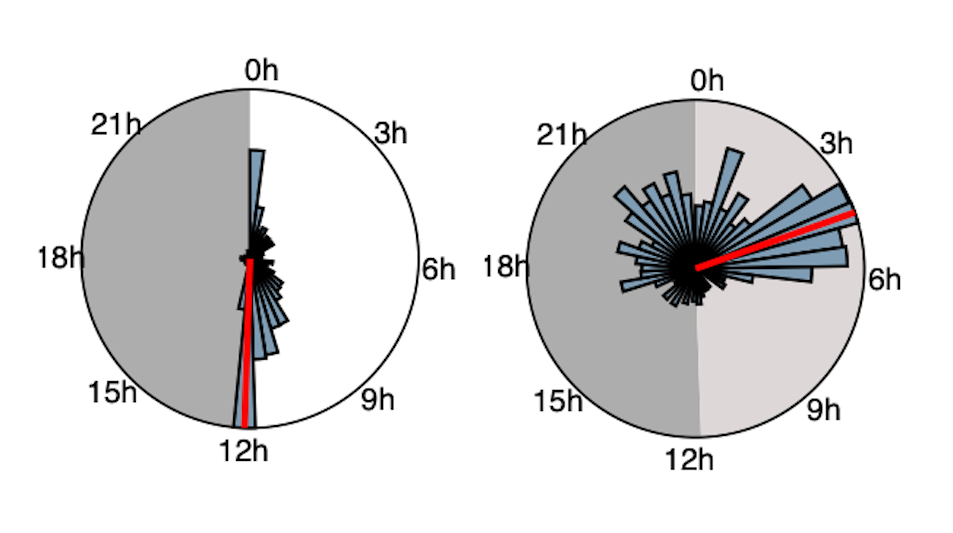
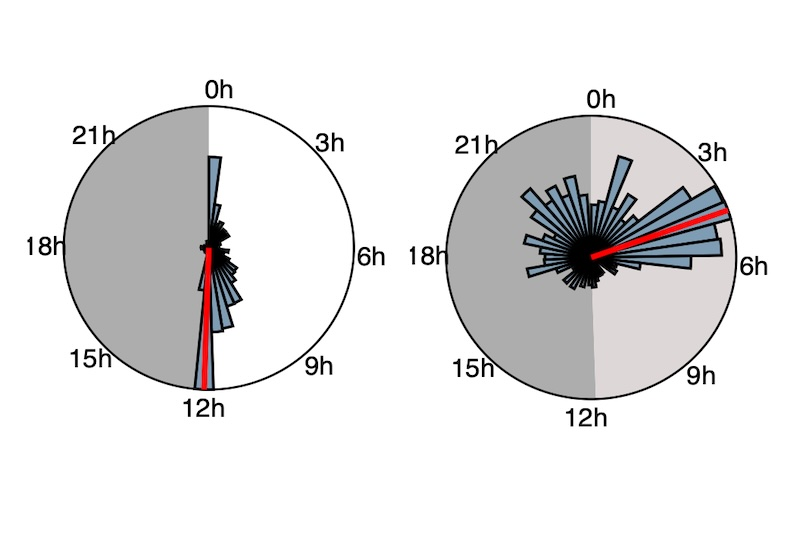
Maj img

diff --git a/_posts/2026-10-15-MTP.md b/_posts/2026-10-15-MTP.md
@@ -5,14 +5,14 @@ date: 2026-10-15 10:00:00-0400
 description: Since June 2026, I joined the communication team of Animal Behavior Live
 giscus_comments: false
 related_posts: false
-related_publications: false
+related_publications: true
 ---
 
 Since June 2026, I joined the communication team of [Animal Behavior Live](https://animalbehaviour.live/), an international online platform promoting sustainable and inclusive events. This year, the [annual conference](https://ablaoc.sciencesconf.org/) will take place on 12 November 2026 and be themed around 'Studying Animal Behaviour in a Changing World'. 
 
 In a challenging political climate, and because science is under attack, I feel more important than ever to stand together, volunteer our time, and organize opportunities to keep sharing our latest findings and our passion for science. 
 
-One thing I particularly enjoy is interviewing other scientists, and we were fortunate to welcome two wonderful plenary speakers: Dr. Iliana Medina Guzmán and Dr. Chloé Lahondère. Below are the two “Meet the PI” episodes we organized, along with a teaser for each interview.
+One thing I particularly enjoy is interviewing other scientists, and we were fortunate to welcome two wonderful plenary speakers: [Dr. Iliana Medina Guzmán](https://biosciences.unimelb.edu.au/research/beam-group) and [Dr. Chloé Lahondère](https://www.chloelahondere.com/). Below are the two “Meet the PI” episodes we organized, along with a teaser for each interview.
 
 
 <div class="row mt-3">
@@ -24,19 +24,19 @@ One thing I particularly enjoy is interviewing other scientists, and we were for
     </div>
 </div>
 <div class="caption">
-    Teaser for Iliana (left) and Chloé (right) interviews
+    Teaser for Iliana and Chloé interviews
 </div>
 
 Full interview:
 
 <div class="row mt-3">
     <div class="col-sm mt-3 mt-md-0">
-        {% include video.liquid path="https://www.youtube.com/watch?v=hEX4T19Mt7M" class="img-fluid rounded z-depth-1" %}
+        {% include video.liquid path="https://www.youtube.com/embed/hEX4T19Mt7M" class="img-fluid rounded z-depth-1" %}
     </div>
     <div class="col-sm mt-3 mt-md-0">
-        {% include video.liquid path="https://www.youtube.com/watch?v=aVPEAgBbdvA" class="img-fluid rounded z-depth-1" %}
+        {% include video.liquid path="https://www.youtube.com/embed/aVPEAgBbdvA" class="img-fluid rounded z-depth-1" %}
     </div>
 </div>
 
 
-
+{% cite bioarxiv_shift %}

diff --git a/_projects/13_project.md b/_projects/13_project.md
@@ -3,12 +3,12 @@ layout: page
 title: Rapid circadian resetting in mosquitoes
 description: How does Aedes aegypti respond to transient alterations in light cycles? 
 img: assets/img/13.jpg
-importance: 1
+importance: 87
 category: work
 related_publications: false
 ---
 
-In July 2026, I traveled to Vancouver, Canada, to participate in the Mosquito Neurethology and Neuroecology Satellite meeting of the [International Congress of Neuroethology]https://icn2026vancouver.com/). It was a pleasure to meet everyone and present our work trying to disrupt the circadian clocks of mosquitoes. 
+In July 2026, I traveled to Vancouver, Canada, to participate in the Mosquito Neurethology and Neuroecology Satellite meeting of the [International Congress of Neuroethology](https://icn2026vancouver.com/). It was a pleasure to meet everyone and present our work trying to disrupt the circadian clocks of mosquitoes. 
 
 <div class="row">
     <div class="col-sm mt-3 mt-md-0">
@@ -17,5 +17,22 @@ In July 2026, I traveled to Vancouver, Canada, to participate in the Mosquito Ne
     <div class="col-sm mt-3 mt-md-0">
         {% include figure.liquid loading="eager" path="assets/img/P13_2.jpg" title="P2" class="img-fluid rounded z-depth-1" %}
     </div>
+    <div class="col-sm mt-3 mt-md-0">
+        {% include figure.liquid loading="eager" path="assets/img/P13_3.jpg" title="P3" class="img-fluid rounded z-depth-1" %}
+    </div>
 
+</div>
+
+<div class="row">
+    <div class="col-sm-6">
+        <div>
+            {% include figure.liquid loading="eager" path="assets/img/P13_1.jpg" title="P1" class="img-fluid rounded z-depth-1" %}
+        </div>
+        <div class="mt-3">
+            {% include figure.liquid loading="eager" path="assets/img/P13_3.jpg" title="P3" class="img-fluid rounded z-depth-1" %}
+        </div>
+    </div>
+    <div class="col-sm-6 mt-3 mt-sm-0">
+        {% include figure.liquid loading="eager" path="assets/img/P13_2.jpg" title="P2" class="img-fluid rounded z-depth-1" %}
+    </div>
 </div>

diff --git a/_posts/2025-02-26-HBF.md b/_posts/2025-02-26-HBF.md
@@ -15,3 +15,12 @@ The first was the [Hokie BugFest](https://www.ento.vt.edu/4-H_Entomology/hokiebu
 The second event was [Hokie for a Day](https://ceni.icat.vt.edu/programs/hokie-for-a-day-expo.html), an exhibition of Virginia Tech labs to fifth-grade students. It gives young learners an opportunity to discover university life and understand the relevance of our research.
 
 I believe that these events are an essential part of our mission to make science accessible and engaging for the public, and trying to spark curiosity in future generations. It is also a very cool exercise to manipulate your topic, and a funny and rewarding experience !
+
+<div class="row mt-3">
+    <div class="col-sm mt-3 mt-md-0">
+        {% include figure.liquid loading="eager" path="assets/img/B8_1.jpg" class="img-fluid rounded z-depth-1" %}
+    </div>
+    <div class="col-sm mt-3 mt-md-0">
+        {% include figure.liquid loading="eager" path="assets/img/B8_2.jpg" class="img-fluid rounded z-depth-1" %}
+    </div>
+</div>

diff --git a/_projects/6_project.md b/_projects/6_project.md
@@ -3,7 +3,7 @@ layout: page
 title: Poster n°1<br>SFECA | 2021
 description: Invasive plant species through the bee eye, an analysis of flower coloration in the French Pyrenees
 img: assets/img/6.jpg
-importance: 7
+importance: 94
 category: work
 related_publications: true
 ---

diff --git a/_projects/4_project.md b/_projects/4_project.md
@@ -3,7 +3,7 @@ layout: page
 title: PhD project<br>2021-2024
 description: The cognition of mosquito larvae as a biological indicator of the quality of aquatic ecosystems
 img: assets/img/4.jpg
-importance: 3
+importance: 90
 category: work
 related_publications: false
 ---

diff --git a/_projects/5_project.md b/_projects/5_project.md
@@ -3,7 +3,7 @@ layout: page
 title: Supervision<br>M1 Intern | 2021
 description: Effects of light and turbidity on the habituation of Aedes aegypti mosquito larvae
 img: assets/img/5.jpg
-importance: 6
+importance: 93
 category: work
 related_publications: false
 ---

diff --git a/_projects/1_project.md b/_projects/1_project.md
@@ -3,7 +3,7 @@ layout: page
 title: M1 Internship<br>2019
 description: Measuring methane production by the intestinal microbiota of coral reef fishes
 img: assets/img/1.jpg
-importance: 10
+importance: 97
 category: work
 related_publications: false
 ---

diff --git a/_projects/3_project.md b/_projects/3_project.md
@@ -3,7 +3,7 @@ layout: page
 title: M2 Internship<br>n°2 | 2020
 description: Color-advertising strategies of invasive plants through the bee eye
 img: assets/img/3.jpg
-importance: 8
+importance: 95
 category: work
 related_publications: true
 ---

diff --git a/_projects/7_project.md b/_projects/7_project.md
@@ -3,7 +3,7 @@ layout: page
 title: Poster n°2<br>E&B | 2022
 description: A tracking system to assess activity and learning in mosquito larvae
 img: assets/img/7.jpg
-importance: 5
+importance: 92
 category: work
 related_publications: true
 ---

diff --git a/_projects/8_project.md b/_projects/8_project.md
@@ -3,7 +3,7 @@ layout: page
 title: Poster n°3<br>SFECA | 2023
 description: Chemical pollution affects the behaviour of mosquito larvae
 img: assets/img/8.jpg
-importance: 4
+importance: 91
 category: work
 related_publications: true
 ---

diff --git a/_projects/12_project.md b/_projects/12_project.md
@@ -3,7 +3,7 @@ layout: page
 title: Visual danger<br>ESA | 2025
 description: Modulation of mosquitoes' responses to visual threats
 img: assets/img/12.jpg
-importance: 1
+importance: 88
 category: work
 related_publications: false
 ---

diff --git a/_projects/9_project.md b/_projects/9_project.md
@@ -3,7 +3,7 @@ layout: page
 title: Internship<br>AVA | 2018
 description: Two month internship at AVA - Agir pour la Vie Animale
 img: assets/img/9.jpg
-importance: 12
+importance: 99
 category: work
 related_publications: false
 ---
